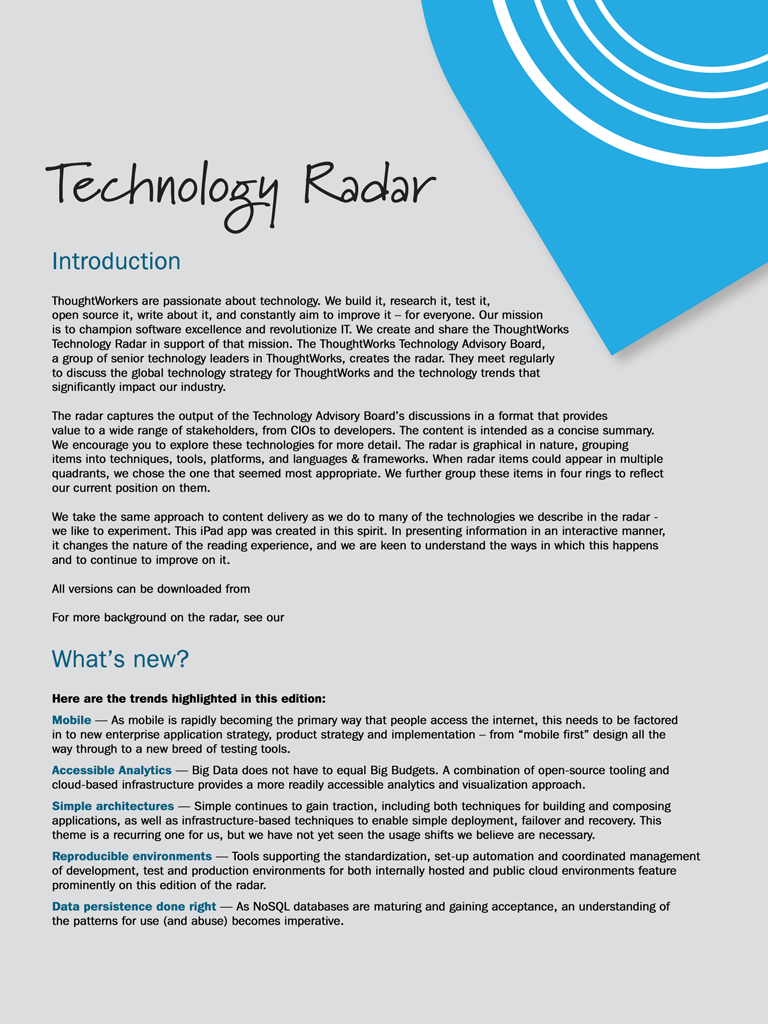
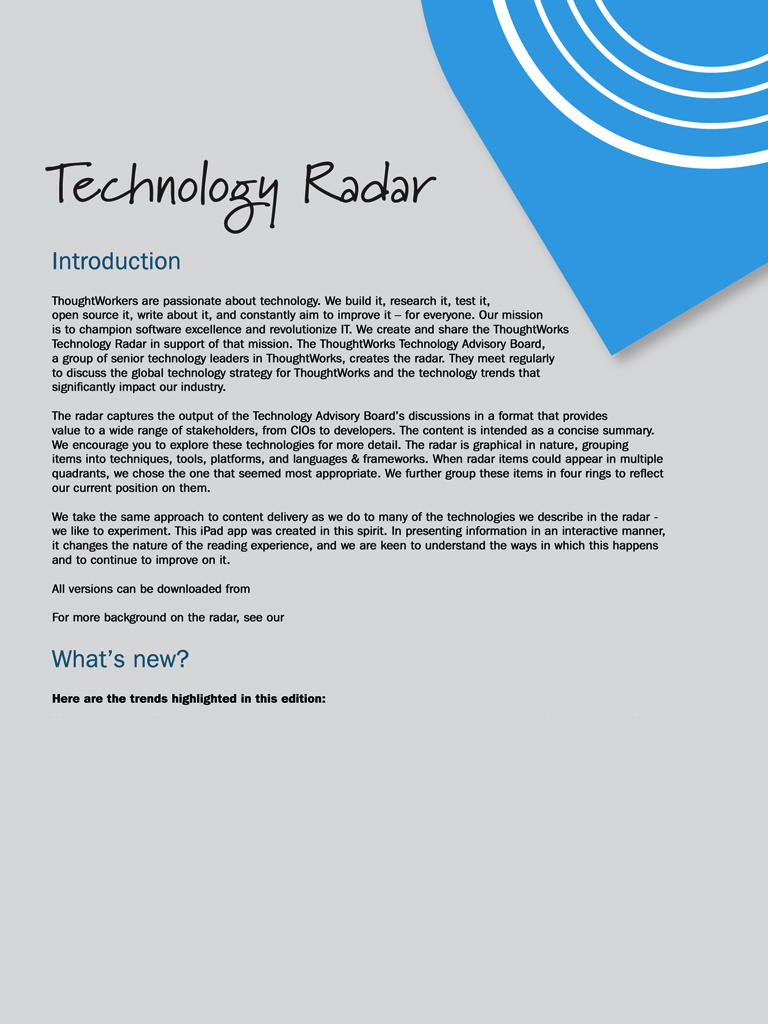
Sriram: Fixed the introduction tab to load every radar trends and highlights as html

Changed region(s): [[0.0625, 0.6875, 0.9062, 0.9062]]

diff --git a/trends.html b/trends.html
@@ -1,0 +1,37 @@
+<html>
+<style type="text/css">
+    body {
+        font-family: FranklinGothicITCbyBT-Book;
+        font-size: 12px;
+    }
+
+    ul {
+        list-style-type: none;
+        padding: 0;
+        margin: 0;
+    }
+    li {
+        padding: 0.2em;
+    }
+</style>
+<body>
+<ul>
+    <li><strong>Embracing falling boundaries</strong> - Whether you like it or not, boundaries are falling down around
+        you. We choose to embrace this by examining concepts like perimeterless enterprise, development environments in
+        the cloud, and co-location by telepresence.
+    </li>
+    <li><strong>Applying proven practices to areas that somehow missed them </strong> - We are not really sure why, but
+        many in our industry have missed ideas like capturing client side JavaScript errors, continuous delivery for
+        mobile, database migrations for NoSQL, and frameworks for CSS.
+    </li>
+    <li><strong>Lightweight options for analytics</strong> - Data science and analytics are not just for people with a
+        PhD in the field. We highlight collaborative analytics and data science, where all developers understand the
+        basics and work closely with experts when necessary.
+    </li>
+    <li><strong>Infrastructure as code</strong> - Continuous delivery and DevOps have elevated our thinking about
+        infrastructure. The implications of thinking about infrastructure as code and the need for new tools are still
+        evolving.
+    </li>
+</ul>
+</body>
+</html>

diff --git a/IntroductionViewController.m b/IntroductionViewController.m
@@ -1,11 +1,3 @@
-//
-//  IntroductionViewController.m
-//  TechRadar
-//
-//  Created by Magnus Ernstsson on 2012-10-25.
-//  Copyright (c) 2012 ThoughtWorks. All rights reserved.
-//
-
 #import "IntroductionViewController.h"
 #import "PreviewViewController.h"
 
@@ -14,9 +6,9 @@
 @end
 
 @implementation IntroductionViewController
+@synthesize trendsWebView;
 
-- (id)initWithNibName:(NSString *)nibNameOrNil bundle:(NSBundle *)nibBundleOrNil
-{
+- (id)initWithNibName:(NSString *)nibNameOrNil bundle:(NSBundle *)nibBundleOrNil {
     self = [super initWithNibName:nibNameOrNil bundle:nibBundleOrNil];
     if (self) {
         // Custom initialization
@@ -24,30 +16,28 @@
     return self;
 }
 
--(IBAction) faq:(UIButton*)button {
+- (void)viewDidLoad {
+    [super viewDidLoad];
+    NSString *htmlBundle = [[NSBundle mainBundle] pathForResource:@"trends" ofType:@"html"];
+    [trendsWebView loadRequest:[NSURLRequest requestWithURL:[NSURL fileURLWithPath:htmlBundle isDirectory:NO]]];
+}
+
+- (IBAction)faq:(UIButton *)button {
     [self performSegueWithIdentifier:@"intro-to-preview" sender:@"http://martinfowler.com/articles/radar-faq.html"];
 }
 
--(IBAction) radar:(UIButton*)button {
+- (IBAction)radar:(UIButton *)button {
     [self performSegueWithIdentifier:@"intro-to-preview" sender:@"http://www.thoughtworks.com/radar"];
 }
 
-- (void)prepareForSegue:(UIStoryboardSegue *)segue sender:(NSString*)url
-{
-	if ([segue.identifier isEqualToString:@"intro-to-preview"]) {
-    	PreviewViewController *controller = (PreviewViewController*)segue.destinationViewController;
+- (void)prepareForSegue:(UIStoryboardSegue *)segue sender:(NSString *)url {
+    if ([segue.identifier isEqualToString:@"intro-to-preview"]) {
+        PreviewViewController *controller = (PreviewViewController *) segue.destinationViewController;
         controller.url = url;
-	}
+    }
 }
 
-- (void)viewDidLoad
-{
-    [super viewDidLoad];
-	// Do any additional setup after loading the view.
-}
-
-- (void)didReceiveMemoryWarning
-{
+- (void)didReceiveMemoryWarning {
     [super didReceiveMemoryWarning];
     // Dispose of any resources that can be recreated.
 }

diff --git a/IntroductionViewController.h b/IntroductionViewController.h
@@ -1,12 +1,7 @@
-//
-//  IntroductionViewController.h
-//  TechRadar
-//
-//  Created by Magnus Ernstsson on 2012-10-25.
-//  Copyright (c) 2012 ThoughtWorks. All rights reserved.
-//
-
 #import <UIKit/UIKit.h>
 
-@interface IntroductionViewController : UIViewController
+@interface IntroductionViewController : UIViewController{
+    UIWebView* trendsWebView;
+}
+@property (nonatomic,strong) IBOutlet UIWebView  *trendsWebView;
 @end
